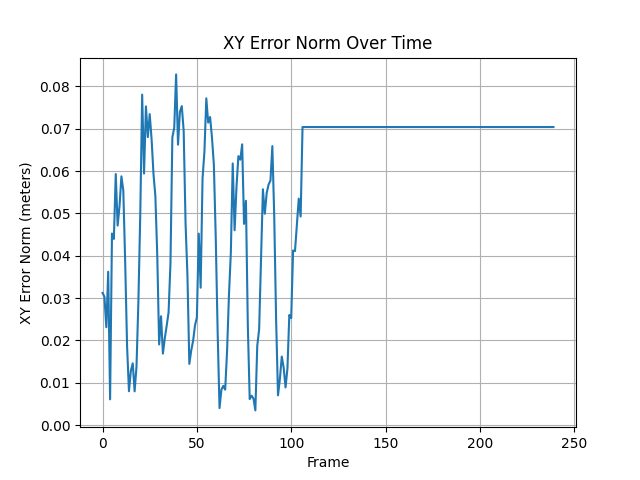
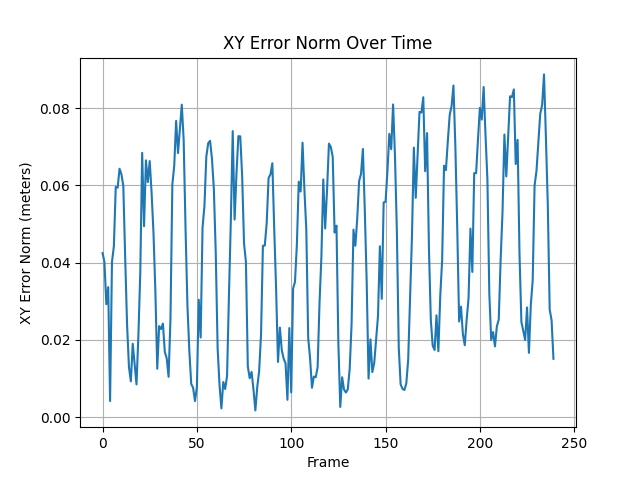
fix metrics

diff --git a/source/isaaclab/isaaclab/envs/mdp/commands/velocity_command.py b/source/isaaclab/isaaclab/envs/mdp/commands/velocity_command.py
@@ -71,8 +71,9 @@ class UniformVelocityCommand(CommandTerm):
         self.metrics["error_vel_xy"] = torch.zeros(self.num_envs, device=self.device)
         self.metrics["error_vel_yaw"] = torch.zeros(self.num_envs, device=self.device)
         self.metrics["action_acceleration"] = torch.zeros(self.num_envs, device=self.device)
-        self.metrics["error_vel_xy_log"] = torch.zeros(self.num_envs, 350, device=self.device)
-        self.metrics["error_vel_yaw_log"] = torch.zeros(self.num_envs, 350, device=self.device)
+        self.step_counter = torch.zeros(self.num_envs, dtype=torch.long, device=self.device)
+        self.metrics["error_vel_xy_log"] = torch.zeros(self.num_envs, 351, device=self.device)
+        self.metrics["error_vel_yaw_log"] = torch.zeros(self.num_envs, 351, device=self.device)
 
         # -- similarity measure
         self.metrics["similarity_index_step_distance"] = torch.zeros(self.num_envs, device=self.device)
@@ -92,7 +93,6 @@ class UniformVelocityCommand(CommandTerm):
         self.lidar_ang_jerk_square_sum = torch.zeros(self.num_envs, device=self.device)
 
         self.env_counter = torch.zeros(self.num_envs, device=self.device)
-        self.step_counter = torch.zeros(self.num_envs, dtype=torch.long, device=self.device)
 
         # -- walking motion
         self.metrics["knee_actuation"] = torch.zeros(self.num_envs, device=self.device)
@@ -151,8 +151,11 @@ class UniformVelocityCommand(CommandTerm):
             dim=-1,
         )
         self.metrics["error_vel_yaw"] = torch.abs(self.vel_command_b[:, 2] - self.robot.data.root_ang_vel_b[:, 2])
-        self.metrics["error_vel_xy_log"][:, self.step_counter] = self.metrics["error_vel_xy"].clone()
-        self.metrics["error_vel_yaw_log"][:, self.step_counter] = self.metrics["error_vel_yaw"].clone()
+        row = torch.arange(self.num_envs, device=self.device)
+        col = self.step_counter.to(torch.long).clamp(max=self.metrics["error_vel_xy_log"].shape[1] - 1) # why?
+        self.metrics["error_vel_xy_log"][row, col] = self.metrics["error_vel_xy"].clone()
+        self.metrics["error_vel_yaw_log"][row, col] = self.metrics["error_vel_yaw"].clone()
+        self.step_counter += 1
         ########################## Walking motion ##########################
         self.metrics["pelvis_height"] = torch.abs(self.robot.data.root_pos_w[:, 2])
 
@@ -267,6 +270,7 @@ class UniformVelocityCommand(CommandTerm):
         # set the command counter to zero
         self.command_counter[env_ids] = 0
         # resample the command
+        self.step_counter[env_ids] = 0
         self._resample(env_ids)
         # add logging metrics
         extras = {}
@@ -288,7 +292,6 @@ class UniformVelocityCommand(CommandTerm):
         return extras
 
     def _resample_command(self, env_ids: Sequence[int]):
-        self.step_counter[env_ids] += 1
         # sample velocity commands
         r = torch.empty(len(env_ids), device=self.device)
         # -- linear velocity - x direction

diff --git a/source/ros2/isaac-ros/g1_standalone_v1_nav_heuristic.py b/source/ros2/isaac-ros/g1_standalone_v1_nav_heuristic.py
@@ -556,9 +556,10 @@ LAST_ITER = 8000
 target_pos_w = np.array([-0.5, -0.5, 0.0])
 heading_target = -math.pi/2
 
-SLOW_BOUND = 0.1
+SLOW_BOUND = 0.2
 MAX_LIN_VEL = 0.1
 MAX_ANG_VEL = 0.2
+NAV_HZ = 5
 # =============================== Main iteration ===============================
 is_first_released = False
 print_simtime = 0
@@ -637,22 +638,24 @@ while simulation_app.is_running():
         gt_errors = np.vstack((gt_errors, np.linalg.norm(target_pos_w[:2] - base_pos[:2]).reshape((1,1))))
         
         # OPTION 1 : Determine the end at the last timestep.
-        # if np.linalg.norm(pos_command_b[:2]) < 0.01 and heading_error[0] < 0.01:
-        #     current_iter = LAST_ITER
+        if np.linalg.norm(pos_command_b[:2]) < 0.01 and heading_error[0] < 0.01:
+            current_iter = LAST_ITER
 
         # OPTION 2 : Determine the end using windowed avg.
         NUM_AVG = 10
         if pos_command_bs.shape[0] > NUM_AVG:
             print("AVG pos error : ", round(np.mean(pos_command_bs[-NUM_AVG:, :].reshape((NUM_AVG,))), 4))
             print("AVG ori error : ", round(np.mean(np.abs(heading_error_bs[-NUM_AVG:, :]).reshape((NUM_AVG,))), 4))
-            if np.mean(pos_command_bs[-NUM_AVG:, :].reshape((NUM_AVG,))) < 0.1 \
-                and np.mean(np.abs(heading_error_bs[-NUM_AVG:, :]).reshape((NUM_AVG,))) < 0.1:
+            if np.mean(pos_command_bs[-NUM_AVG:, :].reshape((NUM_AVG,))) < 0.05 \
+                and np.mean(np.abs(heading_error_bs[-NUM_AVG:, :]).reshape((NUM_AVG,))) < 0.05:
                 current_iter = LAST_ITER
 
         # Navigation
-        if current_iter % 40:
+        if current_iter % int(200/NAV_HZ):
             vel_command_b[:2] = np.clip(np.sign(pos_command_b[:2]) * MAX_LIN_VEL * np.sqrt(np.abs(pos_command_b[:2] / SLOW_BOUND)), -MAX_LIN_VEL, MAX_LIN_VEL)
             vel_command_b[2] = np.clip(np.sign(heading_error) * MAX_ANG_VEL * np.sqrt(np.abs(heading_error / SLOW_BOUND)), -MAX_ANG_VEL, MAX_ANG_VEL)
+            # vel_command_b[:2] = np.clip(np.sign(pos_command_b[:2]) * np.sqrt(np.abs(pos_command_b[:2] / SLOW_BOUND)), -MAX_LIN_VEL, MAX_LIN_VEL)
+            # vel_command_b[2] = np.clip(np.sign(heading_error)  * np.sqrt(np.abs(heading_error / SLOW_BOUND)), -MAX_ANG_VEL, MAX_ANG_VEL)
 
         if prev_action is None:
             prev_action = np.zeros(29)

diff --git a/scripts/reinforcement_learning/rsl_rl/play.py b/scripts/reinforcement_learning/rsl_rl/play.py
@@ -155,7 +155,7 @@ def main():
     done_env_mask = torch.zeros(env.num_envs, dtype=torch.bool, device=args_cli.device)
 
     while simulation_app.is_running():
-        from isaacsim.core.api.simulation_context import SimulationContext
+        # from isaacsim.core.api.simulation_context import SimulationContext
 
         # sim = SimulationContext.instance()  # 이미 생성된 컨텍스트 반환
         # print("physics_dt:", sim.get_physics_dt())         # 예: 0.0083333 (120Hz)
